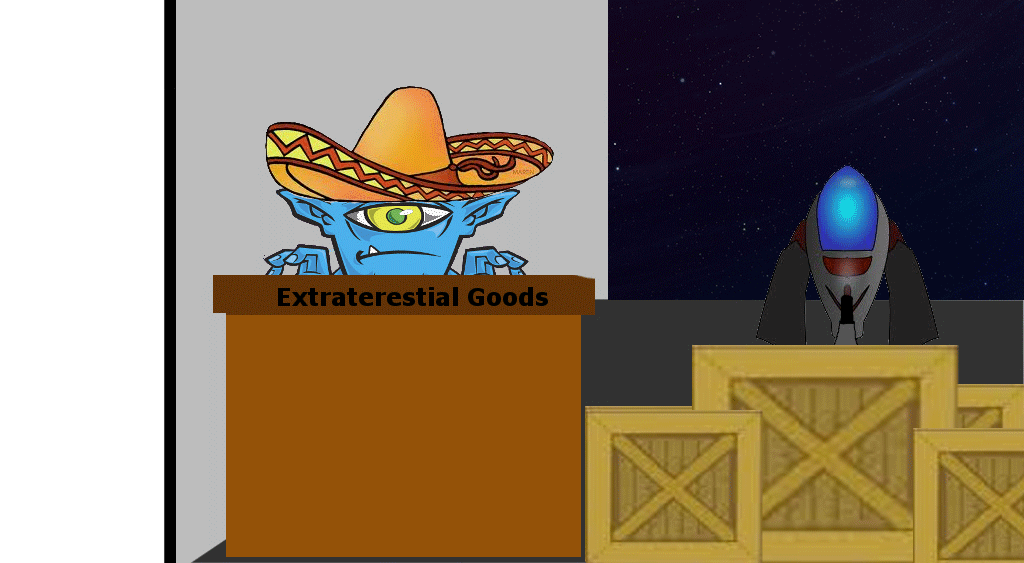
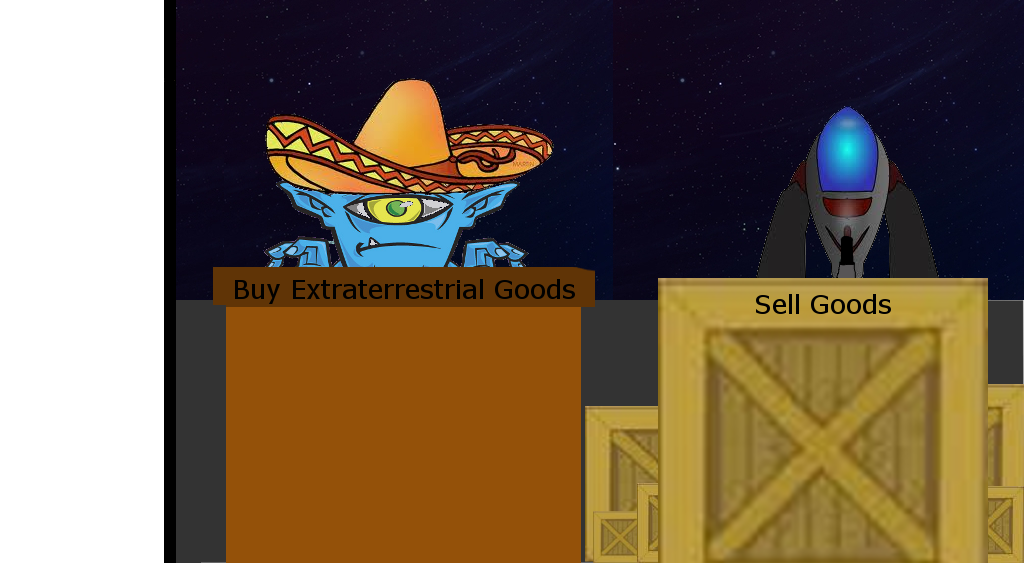
Fixed positioning of market/cargo. Changed game screen background image. (GH)

diff --git a/src/edu/gatech/spacetrader/screens/GameScreen.java b/src/edu/gatech/spacetrader/screens/GameScreen.java
@@ -149,13 +149,10 @@ public class GameScreen extends Screen {
                 "Fill Fuel - "
                         + (-1 * (player.getSpaceCraft().getFuel() - 100) * 5 / 10)
                         + " cr",
-                fillFuelButton.x
-                        + ((fillFuelButton.width / 2) - (fm
-                                .stringWidth("Fill Fuel - "
-                                        + (-1
-                                                * (player.getSpaceCraft()
-                                                        .getFuel() - 100) * 5 / 10)
-                                        + " cr") / 2)), fillFuelButton.y + y);
+                fillFuelButton.x + ((fillFuelButton.width / 2) 
+                        - (fm.stringWidth("Fill Fuel - " + (-1
+                                * (player.getSpaceCraft().getFuel() - 100) * 5 / 10) 
+                                + " cr") / 2)), fillFuelButton.y + y);
 
         player.getSpaceCraft().drawFuel(g, panel, x, y * 11);
 

diff --git a/src/edu/gatech/spacetrader/spacecraft/SpaceCraft.java b/src/edu/gatech/spacetrader/spacecraft/SpaceCraft.java
@@ -73,7 +73,7 @@ public abstract class SpaceCraft {
         maxFuel = 100;
 
         int goodCount = 0;
-        final int x = 700;
+        final int x = 673;
         final int y = 350;
         final int width = x + Good.GOOD_BG.getIconWidth() * 5;
         final int height = y + Good.GOOD_BG.getIconHeight() * 2;

diff --git a/src/edu/gatech/spacetrader/planet/Planet.java b/src/edu/gatech/spacetrader/planet/Planet.java
@@ -288,8 +288,7 @@ public class Planet {
                 .nextInt(Environment.values().length)];
 
         currentEvent = Event.NONE;
-        market = new PlanetMarket(this, 280,
-                350);
+        market = new PlanetMarket(this, 253, 350);
         icon = environment.getRandomImage();
     }
 
